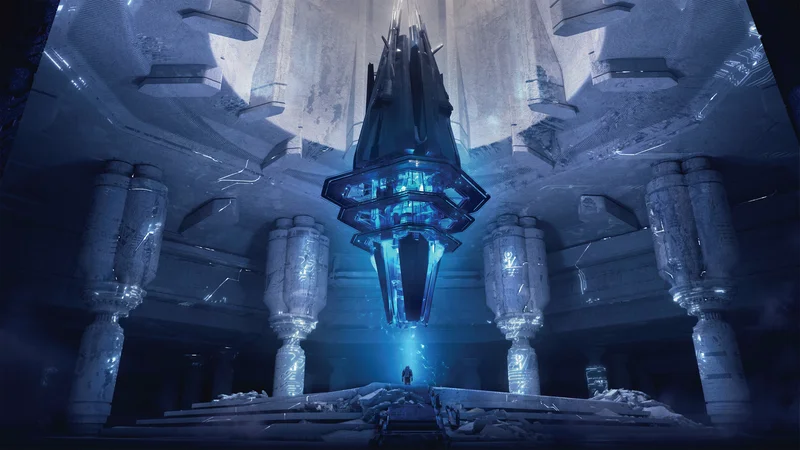
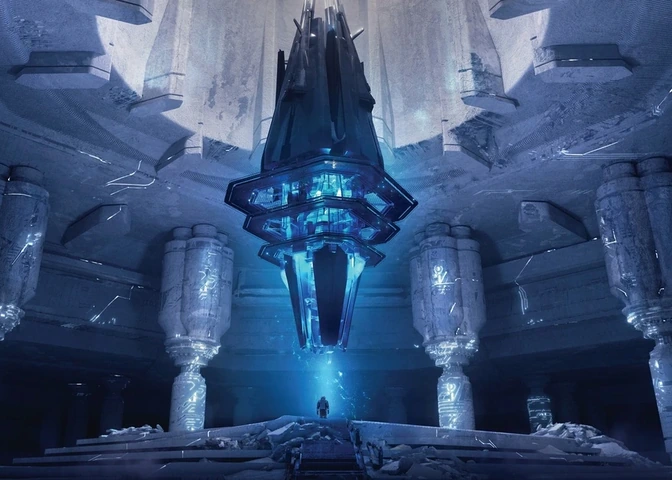
Refresh hero project imagery and add a full selection review

diff --git a/hero-image-selection.html b/hero-image-selection.html
@@ -1,0 +1,54 @@
+<!doctype html>
+<html lang="ko">
+<head>
+<meta charset="utf-8">
+<meta name="viewport" content="width=device-width, initial-scale=1">
+<meta name="robots" content="noindex, nofollow, noarchive">
+<title>전체 선정 이미지 — Wonkyoung Seo</title>
+<style>
+@font-face{font-family:Manrope;src:url('assets/fonts/Manrope-variable.ttf') format('truetype');font-weight:200 800;font-display:swap}
+@font-face{font-family:'Funnel Display';src:url('assets/fonts/FunnelDisplay-variable.ttf') format('truetype');font-weight:300 800;font-display:swap}
+*{box-sizing:border-box}body{margin:0;background:#101114;color:#f4f4f3;font-family:Manrope,Arial,sans-serif;-webkit-font-smoothing:antialiased}a{color:inherit;text-underline-offset:5px}main{max-width:1440px;margin:auto;padding:42px 24px 48px}header{display:flex;align-items:flex-end;justify-content:space-between;gap:24px;padding-bottom:30px;border-bottom:1px solid #34353a}h1,h2{font-family:'Funnel Display',Manrope,sans-serif;font-weight:500;letter-spacing:-.035em;margin:0}h1{font-size:clamp(28px,4vw,42px)}header p{margin:12px 0 0;color:#999da6;font-size:12px;line-height:1.7}.back{flex-shrink:0;font-size:12px;padding-bottom:5px}.selection{display:grid;grid-template-columns:1fr;gap:20px;margin-top:24px}.scene{min-width:360px;padding:22px 16px 28px;border:1px solid #34353a;background:#15161a}.scene-head{display:flex;align-items:baseline;justify-content:space-between;gap:12px;margin-bottom:34px}h2{font-size:30px;line-height:1}.project{font-size:10px;color:#a3a6af;line-height:1.4;text-align:right}.modules{display:grid;width:346px;grid-template-columns:repeat(3,110px);grid-template-rows:repeat(2,80px);gap:8px}.module{position:relative;width:110px;height:80px;margin:0}.module img{display:block;width:110px;height:80px;object-fit:cover;background:#25272d}.module figcaption{position:absolute;top:-17px;left:0;font-size:10px;line-height:13px;letter-spacing:.04em;color:#a3a6af}.module.tall{grid-row:1 / span 2;grid-column:1;height:168px}.module.tall img{height:168px}.module.second{grid-column:2;grid-row:1}.module.third{grid-column:2;grid-row:2}.module.third figcaption,.module.fifth figcaption{top:auto;bottom:-17px}.module.fourth{grid-column:3;grid-row:1}.module.fifth{grid-column:3;grid-row:2}.module.package img{object-fit:cover;background:#d8cf00}@media(min-width:800px){.selection{grid-template-columns:repeat(2,minmax(360px,1fr))}.scene{padding:24px 18px 30px}}@media(min-width:1200px){.selection{grid-template-columns:repeat(3,minmax(360px,1fr))}}@media(max-width:420px){main{padding:28px 12px 36px}header{align-items:flex-start;flex-direction:column;gap:18px}.scene{padding-left:8px;padding-right:8px}.scene-head{padding:0 4px}.selection{gap:16px}}
+@media(max-width:383px){main{padding-left:0;padding-right:0}header{padding-left:12px;padding-right:12px}.scene{border-left:0;border-right:0;padding-left:7px;padding-right:7px}.scene-head{padding-left:5px;padding-right:5px}}
+</style>
+</head>
+<body>
+<main>
+<header><div><h1>전체 선정 이미지</h1><p>실제 히어로 모듈 크기 · 3장 / Just Cool 5장</p></div><a class="back" href="index.html">히어로 미리보기 ↗</a></header>
+<div class="selection">
+<section class="scene"><div class="scene-head"><h2>Strategic</h2><span class="project">Micro RGB</span></div><div class="modules">
+<figure class="module tall"><img src="assets/hero/glimpses/strategic-bag-portrait.webp" alt="Micro RGB 쇼핑백"><figcaption>S1</figcaption></figure>
+<figure class="module second"><img src="assets/hero/glimpses/strategic-tv-detail.webp" alt="Micro RGB TV"><figcaption>S2</figcaption></figure>
+<figure class="module third"><img src="assets/hero/glimpses/strategic-color-monument.webp" alt="Micro RGB 컬러 설치"><figcaption>S3</figcaption></figure>
+</div></section>
+<section class="scene"><div class="scene-head"><h2>Refined</h2><span class="project">The Premiere 8K</span></div><div class="modules">
+<figure class="module tall"><img src="assets/hero/glimpses/refined-portal-portrait.webp" alt="The Premiere 8K 건축 공간"><figcaption>R1</figcaption></figure>
+<figure class="module second"><img src="assets/hero/glimpses/refined-product-front.webp" alt="The Premiere 8K 제품 전면"><figcaption>R2</figcaption></figure>
+<figure class="module third"><img src="assets/hero/glimpses/refined-sunset-experience.webp" alt="The Premiere 8K 선셋 라이프스타일"><figcaption>R3</figcaption></figure>
+</div></section>
+<section class="scene"><div class="scene-head"><h2>Iconic</h2><span class="project">Ballie</span></div><div class="modules">
+<figure class="module tall"><img src="assets/hero/glimpses/iconic-robot-stack-fresh.webp" alt="패키지 위의 Ballie"><figcaption>I1</figcaption></figure>
+<figure class="module second"><img src="assets/hero/glimpses/iconic-case-interaction.webp" alt="Ballie 패키지 개봉 동작"><figcaption>I2</figcaption></figure>
+<figure class="module third package"><img src="assets/hero/glimpses/iconic-package-system-fresh.webp" alt="Ballie 내부 패키지 구조"><figcaption>I3</figcaption></figure>
+</div></section>
+<section class="scene"><div class="scene-head"><h2>Distinct</h2><span class="project">Odyssey OLED</span></div><div class="modules">
+<figure class="module tall"><img src="assets/hero/glimpses/distinct-oled-profile-fresh.webp" alt="Odyssey OLED 모니터 측면"><figcaption>D1</figcaption></figure>
+<figure class="module second"><img src="assets/hero/glimpses/distinct-get-ready-fresh.webp" alt="Odyssey OLED GET READY 그래픽"><figcaption>D2</figcaption></figure>
+<figure class="module third"><img src="assets/hero/glimpses/distinct-monitor-front-fresh.webp" alt="Odyssey OLED 모니터 전면"><figcaption>D3</figcaption></figure>
+</div></section>
+<section class="scene"><div class="scene-head"><h2>Bold</h2><span class="project">Wireless Audio VL</span></div><div class="modules">
+<figure class="module tall"><img src="assets/hero/glimpses/bold-dancer-tall.webp" alt="Wireless Audio VL 댄서 포스터"><figcaption>B1</figcaption></figure>
+<figure class="module second"><img src="assets/hero/glimpses/bold-speaker.webp" alt="Wireless Audio VL 스피커"><figcaption>B2</figcaption></figure>
+<figure class="module third"><img src="assets/hero/glimpses/bold-publication.webp" alt="Wireless Audio VL 오렌지 그래픽 출판물"><figcaption>B3</figcaption></figure>
+</div></section>
+<section class="scene"><div class="scene-head"><h2>Just Cool</h2><span class="project">Ark · Odyssey · Creative Pool<br>Smart Monitor · ViewFinity</span></div><div class="modules">
+<figure class="module tall"><img src="assets/hero/glimpses/cool-ark-alt-tall.webp" alt="Ark 세로형 게이밍 모니터"><figcaption>J1</figcaption></figure>
+<figure class="module second"><img src="assets/hero/glimpses/cool-cave.webp" alt="푸른 동굴 속 부유하는 오브젝트"><figcaption>J2</figcaption></figure>
+<figure class="module third"><img src="assets/hero/glimpses/cool-optical.webp" alt="Creative Pool 빛 설치"><figcaption>J3</figcaption></figure>
+<figure class="module fourth"><img src="assets/hero/glimpses/cool-play.webp" alt="Smart Monitor 헤드폰과 플레이 오브젝트"><figcaption>J4</figcaption></figure>
+<figure class="module fifth"><img src="assets/hero/glimpses/cool-glass.webp" alt="ViewFinity 블루 글래스 아트워크"><figcaption>J5</figcaption></figure>
+</div></section>
+</div>
+</main>
+</body>
+</html>

diff --git a/assets/hero-motion.js b/assets/hero-motion.js
@@ -14,42 +14,42 @@
   // including the last-to-first transition. The grid stays fixed on a flip.
   const scenes = [
     { project: 'mrgb', name: 'Micro RGB', slots: [0, 8, 1], rowSpans: [2, 1, 1],
-      images: [['strategic-display-portrait'], ['strategic-particle-field'], ['strategic-campaign-copy']] },
+      images: [['strategic-bag-portrait'], ['strategic-tv-detail'], ['strategic-color-monument']] },
     { project: 'thepremiere-8k', name: 'The Premiere 8K', slots: [4, 9, 2], rowSpans: [2, 1, 1],
-      images: [['refined-detail-portrait'], ['refined-topview'], ['refined-material-corner']] },
+      images: [['refined-portal-portrait'], ['refined-product-front'], ['refined-sunset-experience']] },
     { project: 'ballie', name: 'Ballie', slots: [8, 1, 3], rowSpans: [2, 1, 1],
-      images: [['iconic-unbox-tall'], ['iconic-booklet-clear'], ['iconic-box-clear']] },
+      images: [['iconic-robot-stack-fresh'], ['iconic-case-interaction'], ['iconic-package-system-fresh']] },
     { project: 'odyssey-oled', name: 'Odyssey OLED', slots: [2, 10, 0], rowSpans: [2, 1, 1],
-      images: [['distinct-manifest-tall'], ['distinct-portal-clear'], ['distinct-gold-world']] },
+      images: [['distinct-oled-profile-fresh'], ['distinct-get-ready-fresh'], ['distinct-monitor-front-fresh']] },
     { project: 'wirelessaudio-vl', name: 'Wireless Audio VL', slots: [3, 1, 11], rowSpans: [2, 1, 1],
-      images: [['bold-orange-eight'], ['bold-yellow-rect'], ['bold-gold-diamond']] },
+      images: [['bold-dancer-tall'], ['bold-speaker'], ['bold-publication']] },
     { name: 'Just Cool', slots: [4, 2, 9, 5, 10], rowSpans: [2, 1, 1, 1, 1],
-      images: [['cool-ark-frontal'], ['cool-cave-wide'], ['cool-viewfinity-pink'], ['cool-starship'], ['cool-viewfinity-signal']],
-      projects: ['ark', 'monitor-os', 'viewfinity', 'monitor-os', 'viewfinity'],
-      names: ['Ark', 'The Odyssey Continues', 'ViewFinity', 'The Odyssey Continues', 'ViewFinity'] }
+      images: [['cool-ark-alt-tall'], ['cool-cave'], ['cool-optical'], ['cool-play'], ['cool-glass']],
+      projects: ['ark', 'monitor-os', 'cdp-exhibit', 'smart-monitor', 'viewfinity'],
+      names: ['Ark', 'The Odyssey Continues', 'Creative Pool', 'Smart Monitor', 'ViewFinity'] }
   ];
   // Prepared crops fill each frame; no automatic focal shift or letterboxing.
   const imageDescriptions = {
-    'strategic-display-portrait': 'Micro RGB campaign display with the complete screen visible',
-    'strategic-particle-field': 'Micro RGB blue and magenta particle artwork',
-    'strategic-campaign-copy': 'Micro RGB Feel the power of color campaign graphic',
-    'refined-detail-portrait': 'The Premiere 8K diagonal product and material study',
-    'refined-topview': 'The Premiere 8K complete top-view silhouette',
-    'refined-material-corner': 'The Premiere 8K chrome edge and grille detail',
-    'iconic-unbox-tall': 'Ballie in its open packaging with the lid and tray visible',
-    'iconic-booklet-clear': 'Ballie illustrated booklet held in two hands',
-    'iconic-box-clear': 'Ballie closed packaging with its complete silhouette',
-    'distinct-manifest-tall': 'Odyssey OLED BE THE WINNER OF ALL WORLDS poster',
-    'distinct-portal-clear': 'Odyssey OLED circular portal and character artwork',
-    'distinct-gold-world': 'Odyssey OLED gold doorway artwork',
-    'bold-orange-eight': 'Wireless Audio VL orange concentric figure-eight graphic',
-    'bold-yellow-rect': 'Wireless Audio VL yellow concentric rectangular graphic',
-    'bold-gold-diamond': 'Wireless Audio VL interwoven gold diamond graphic',
-    'cool-ark-frontal': 'Ark gaming lifestyle with the complete vertical monitor visible',
-    'cool-cave-wide': 'The Odyssey Continues floating artifact in a blue cave',
-    'cool-viewfinity-pink': 'ViewFinity pink refractive glass artwork',
-    'cool-starship': 'The Odyssey Continues starship and nebula artwork',
-    'cool-viewfinity-signal': 'ViewFinity yellow graphic field with black alignment marks'
+    "strategic-bag-portrait": "Micro RGB campaign shopping bag held by a hand",
+    "strategic-tv-detail": "Micro RGB television showing a vivid color spectrum",
+    "strategic-color-monument": "Micro RGB color monument with human silhouettes",
+    "refined-portal-portrait": "The Premiere 8K architectural portal and projected light",
+    "refined-product-front": "The Premiere 8K complete frontal product silhouette",
+    "refined-sunset-experience": "The Premiere 8K sunset projection in a premium living room",
+    "iconic-robot-stack-fresh": "Ballie robot displayed on its packaging stack",
+    "iconic-case-interaction": "Ballie case opening tab pulled by a hand",
+    "iconic-package-system-fresh": "Ballie unfolded inner packaging structure",
+    "distinct-oled-profile-fresh": "Odyssey OLED thin display profile with a rainbow edge",
+    "distinct-get-ready-fresh": "Odyssey OLED GET READY graphic typography",
+    "distinct-monitor-front-fresh": "Odyssey OLED monitor and circular spectrum lighting",
+    "bold-dancer-tall": "Wireless Audio VL dancer campaign on a large outdoor poster",
+    "bold-speaker": "Wireless Audio VL speaker in a listening room",
+    "bold-publication": "Wireless Audio VL orange graphic in an open publication",
+    "cool-ark-alt-tall": "Ark vertical gaming display in a room",
+    "cool-cave": "The Odyssey Continues floating artifact in a blue cave",
+    "cool-optical": "Creative Pool optical light installation",
+    "cool-play": "Smart Monitor floating headphones and creative objects",
+    "cool-glass": "ViewFinity flowing blue and purple glass artwork"
   };
   const entries = words.map(() => 0);
   const title = hero.querySelector('.hero-title');

diff --git a/index.html b/index.html
@@ -3,7 +3,7 @@
 <html lang="en">
 <head>
 <meta charset="utf-8"/>
-<meta name="portfolio-revision" content="20261112d"/>
+<meta name="portfolio-revision" content="20261112e"/>
 <meta name="viewport" content="width=device-width, initial-scale=1.0, viewport-fit=cover"/>
 <meta name="robots" content="noindex, nofollow, noarchive, nosnippet"/>
 <title>Wonkyoung Seo</title>
@@ -2759,7 +2759,7 @@ nav::before{
 <link rel="stylesheet" href="assets/type-system.css?v=20261111e">
 <link rel="preload" as="image" href="assets/hero/glimpses/strategic-exhibit.webp" fetchpriority="high">
 <link rel="preload" as="image" href="assets/hero/glimpses/strategic-poster.webp">
-<link rel="stylesheet" href="assets/hero-composition.css?v=20261112d">
+<link rel="stylesheet" href="assets/hero-composition.css?v=20261112e">
 </head>
 <body class="motion-loco">
 <div id="top"></div>
@@ -3100,7 +3100,7 @@ nav::before{
     </div>
   </footer>
 <script src="assets/hero-shadergradient.js?v=20260915" defer></script>
-<script src="assets/hero-motion.js?v=20261112d" defer></script>
+<script src="assets/hero-motion.js?v=20261112e" defer></script>
 <script src="assets/thumbs/list/manifest.js"></script>
 <script>
         // Portfolio data
